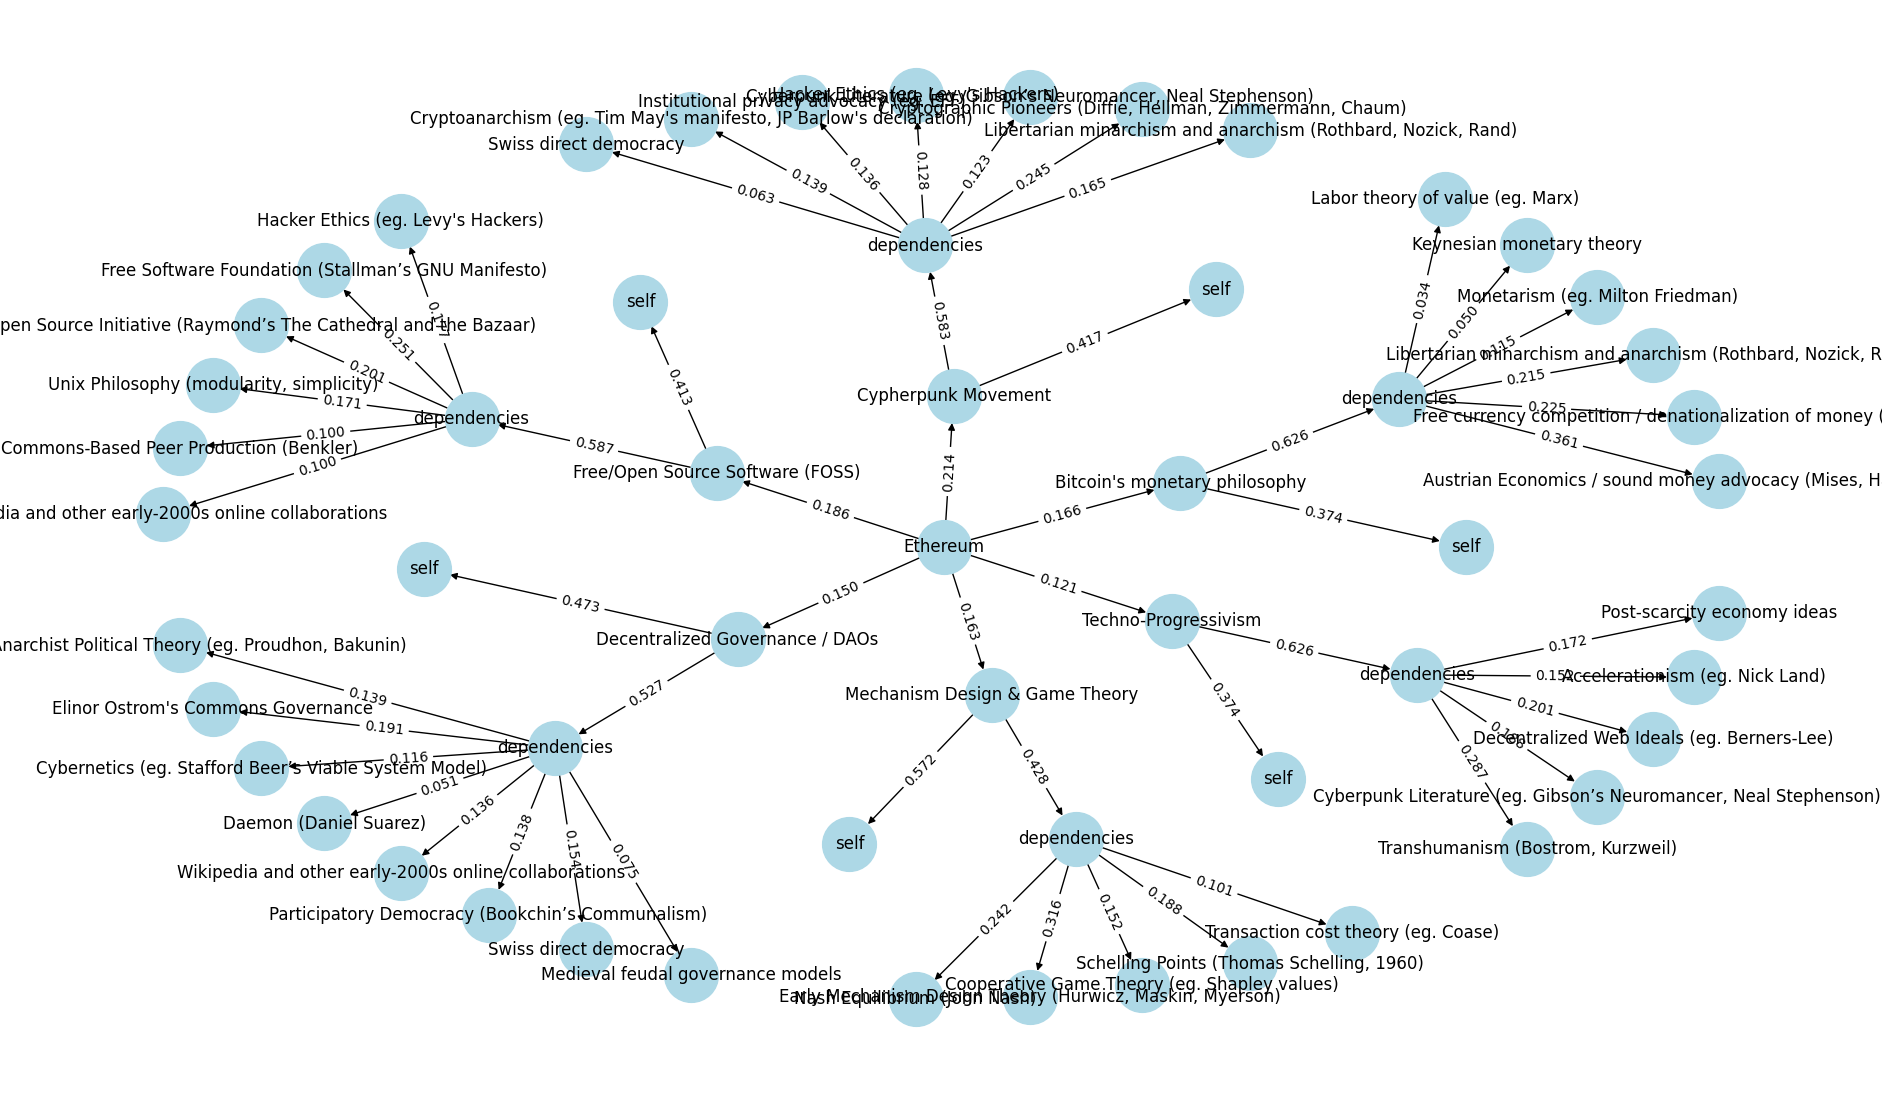
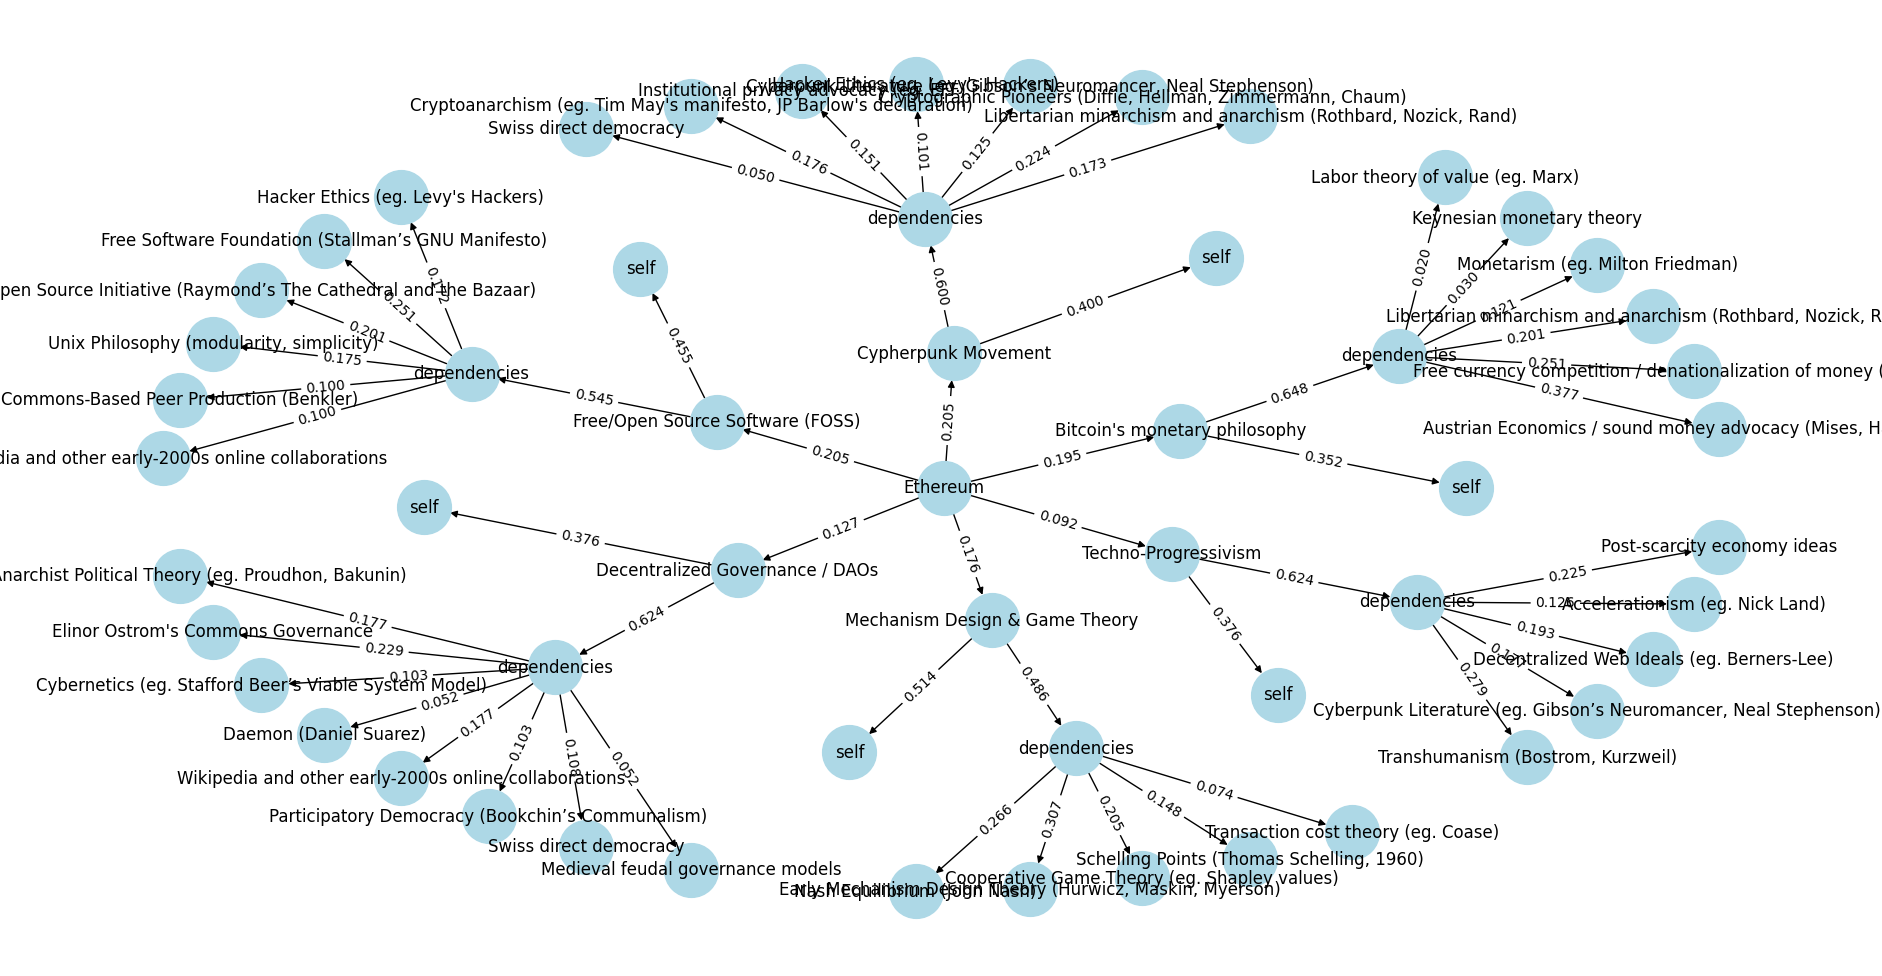
Fixed a few bugz

diff --git a/example2.py b/example2.py
@@ -3,7 +3,43 @@ from scoring import find_optimal_weights, cost_function
 import networkx as nx
 import matplotlib.pyplot as plt
 
-items = {
+INTRO_STRING = """
+Welcome to the multi-layer deep funding demo! In this example, we are
+going to assign weights to various philosophical contributions that are
+upstream of Ethereum's philosophy. This includes _direct_ dependencies, such as
+as Bitcoin's monetary philosophy and the cypherpunk movement, and also
+_dependencies of each dependency_: for example, Austrian economics as
+a dependency of Bitcoin's monetary philosophy.
+
+Note that in principle, a dependency graph of this type can go very deep:
+Austrian economics itself depends on classical liberalism, which itself has
+some degree of dependence on Islamic economic theories that were developed
+roughly a millennium ago. Here, we are simplifying to two levels.
+
+We represent the two-level graph as a _three-level_ graph, to incorporate
+another subtle but important dimension: to what extent was each of Ethereum's
+philosophical progenitors an original contribution, versus "just" a repackaging
+of things that came before it? In other natural deep funding use cases, such as
+math academic and software, this dimension is even more important.
+
+This simulator puts you into the role of a juror. You will be given several
+"comparison" questions, which ask you to make _local_ judgements: for a given
+philosophy, and two of its "ancestors", judge which of its ancestors provided
+more value, and how much more. There will also be questions asking you to
+judge the degree of originality of a philosophy.
+
+Several AI models have been asked to give a score for every edge in the
+dependency graph. After you, the juror, give a few inputs on randomly-sampled
+questions, the linear combination of AI models that are a best-fit to your
+answers will be used to generate "final" weights for the entire graph.
+"""
+
+# The thing whose (recursive) dependencies we are trying to assign credit for
+ROOT_NODE = "Ethereum"
+
+# A list of dependencies of ROOT_NODE, and for each dependency a list of
+# dependencies _of that dependency_
+ITEMS = {
     "Bitcoin's monetary philosophy": [
         "Austrian Economics / sound money advocacy (Mises, Hayek, Rothbard)",
         "Free currency competition / denationalization of money (eg. Hayek)",
@@ -55,7 +91,11 @@ items = {
     ]
 }
 
-graph = {
+# Repackaging the above into a "standardized" graph format. This graph format
+# is three-layered, where the middle layer represents the question of to what
+# extent each top-level dependency is itself a contribution in its own right,
+# versus a repackaging of its own dependencies.
+GRAPH = {
     item: {
         "self": None,
         "dependencies": {
@@ -63,49 +103,34 @@ graph = {
             for value in values
         }
     }
-    for item, values in items.items()
+    for item, values in ITEMS.items()
 }
 
+# Sample code to generate some queries that you can ask AI models to get
+# weights for the whole graph. Note that there is probably an entire art
+# to prompting (and perhaps extending with RAG or interner search or
+# even fine-tuning) an AI well to give good answers to these questions.
 def generate_ai_queries(parent, graph):
     if graph is None:
         return []
     elif set(list(graph.keys())) == {'self', 'dependencies'}:
         children = list(graph['dependencies'].keys())
         o = [
-            f"Estimate to what extent {parent} can be described as a mere combination of pre-existing ideas such as {children}, and to what extent it's a novel thing that is more than the sum of its parts. Provide your answer as a list [pct_original, pct_derivative], where the two numbers add up to 100, with no surrounding explanation text"
+            f"Estimate to what extent {parent} can be described as a mere combination of pre-existing ideas such as {children}, and to what extent it's a novel thing that is more than the sum of its parts. Provide your answer as a python list [pct_original, pct_derivative], where the two numbers add up to 100, with no surrounding explanation text"
         ]
         o.extend(generate_ai_queries(parent, graph['dependencies']))
         return o
     else:
         children = list(graph.keys())
         o = [
-            f"Estimate the relative influence that each of the following philosophies {children} had on {parent}. Provide your answer ONLY as a list of numbers that add up to 100, with no surrounding explanation text"
+            f"Estimate the relative influence that each of the following philosophies {children} had on {parent}. Provide your answer ONLY as a python list of numbers (eg. [10, 20, 30, 40]) that add up to 100, with no surrounding explanation text"
         ]
         for parent, child_node in graph.items():
             o.extend(generate_ai_queries(parent, child_node))
         return o
 
+# The scores given by each AI model, arranged in depth-first-search order
 distributions = {
-    'gpt_o1': [
-        15,
-        40, 60,
-        40, 25, 20, 10, 3, 2,
-        20,
-        40, 60,
-        15, 20, 15, 10, 15, 20, 5,
-        20,
-        60, 40,
-        15, 25, 20, 20, 10, 10,
-        15,
-        40, 60,
-        15, 20, 10, 5, 15, 10, 20, 5,
-        15,
-        70, 30,
-        20, 30, 20, 20, 10,
-        15,
-        40, 60,
-        30, 20, 15, 15, 20
-    ],
     'gpt_o3': [
         # Bitcoin's monetary philosophy (20% overall)
         20,                # Top‐level credit share
@@ -131,6 +156,26 @@ distributions = {
         10,                # Top‐level credit share
         40, 60,           # 40% original, 60% derivative
         25, 20, 25, 15, 15 # Children
+    ],
+    'gpt_o1': [
+        15,
+        40, 60,
+        40, 25, 20, 10, 3, 2,
+        20,
+        40, 60,
+        15, 20, 15, 10, 15, 20, 5,
+        20,
+        60, 40,
+        15, 25, 20, 20, 10, 10,
+        15,
+        40, 60,
+        15, 20, 10, 5, 15, 10, 20, 5,
+        15,
+        70, 30,
+        20, 30, 20, 20, 10,
+        15,
+        40, 60,
+        30, 20, 15, 15, 20
     ],
     'deepseek': [
         25,
@@ -174,8 +219,11 @@ distributions = {
     ]
 }
 
+# The actual scoring function operates over logits, so we convert all
+# scores into logits.
 logits = [[math.log(p) for p in dist] for dist in distributions.values()]
 
+# Function to ask the user to compare two children of a parent
 def ask_comparison(parent, name_a, name_b):
     # Ask the user which deserves more credit
     print(" ")
@@ -193,6 +241,7 @@ def ask_comparison(parent, name_a, name_b):
     # Calculate log multiplier (negative if first name is chosen)
     return math.log(multiplier) if choice == '2' else -math.log(multiplier)
 
+# Function to ask the user to give the level of originality of a node
 def ask_about_originality(parent, children):
     children_txt = '* ' + '\n* '.join(children)
     print(" ")
@@ -200,40 +249,56 @@ def ask_about_originality(parent, children):
     value = float(input("Eg. answer 0.75 for developments that are very significant in their own right, 0.25 for mostly-recombinations, and 0.5 if somewhere in between: "))
     return math.log(value / (1 - value))
 
-def compute_start_positions(graph):
-    start_positions = [len(graph.keys())]
-    for child in graph.values():
-        children_count = len(child['dependencies'].keys())
-        start_positions.append(start_positions[-1] + 2 + children_count)
-    return start_positions
+# Get the total number of nodes in a given graph or subtree
+def get_total_node_count(node):
+    if node is None:
+        return 1
+    else:
+        return 1 + sum([get_total_node_count(v) for v in node.values()])
 
+# In a vector, given a particular position of the current node, get
+# the positions of its children, based on depth-first order
+def get_children_positions(my_position, node):
+    o = [my_position + 1]
+    for child in node.values():
+        o.append(o[-1] + get_total_node_count(child))
+    return o[:-1]
 
+# Ask a user enough questions to get a list of sample values, which
+# models can then be tested against.
 def gather_user_comparisons(parent, graph):
     top_level_nodes = list(graph.keys())
     top_level_width = len(top_level_nodes)
     samples = []
-    start_positions = compute_start_positions(graph)
+    start_positions = get_children_positions(-1, graph)
     # Top-level comparisons
     for _ in range(2):
-        # Randomly select two different names
+        # Randomly select two different top-level dependencies
         a, b = random.sample(range(top_level_width), 2)
         name_a, name_b = top_level_nodes[a], top_level_nodes[b]
         # Store result as (index of first, index of second, log multiplier)
-        samples.append((a, b, ask_comparison(parent, name_a, name_b)))
+        samples.append((
+            start_positions[a],
+            start_positions[b],
+            ask_comparison(parent, name_a, name_b)
+        ))
     # Originality rating
     for _ in range(2):
-        # Randomly select two different names
+        # Randomly select a single top-level dependency
         a = random.randrange(top_level_width)
-        a_self_index = start_positions[a]
-        a_dependencies_index = start_positions[a] + 1
+        a_self_index = start_positions[a] + 1
+        a_dependencies_index = start_positions[a] + 2
         name_a = top_level_nodes[a]
         # Store result as (index of first, index of second, log multiplier)
         samples.append((
             a_self_index,
             a_dependencies_index,
-            ask_about_originality(name_a, list(graph[name_a]['dependencies'].keys()))
+            ask_about_originality(
+                name_a,
+                list(graph[name_a]['dependencies'].keys())
+            )
         ))
-    # Child-level comparisons
+    # Comparing two children of a given top-level dependency
     for _ in range(4):
         # Randomly select a child node
         a = random.randrange(top_level_width)
@@ -242,10 +307,9 @@ def gather_user_comparisons(parent, graph):
         lower_level_nodes = list(graph[name_a]["dependencies"].keys())
         lower_level_width = len(lower_level_nodes)
         b, c = random.sample(range(lower_level_width), 2)
-        b_index, c_index = start_positions[a] + 2 + b, start_positions[a] + 2 + c
+        b_index, c_index = start_positions[a] + 3 + b, start_positions[a] + 3 + c
         name_b, name_c = lower_level_nodes[b], lower_level_nodes[c]
         samples.append((b_index, c_index, ask_comparison(name_a, name_b, name_c)))
-
     return samples
 
 def plot_tree(tree, weights, root):
@@ -388,17 +452,8 @@ def plot_tree(tree, weights, root):
     nx.draw_networkx_edge_labels(G, pos, edge_labels=edge_labels)
     plt.show()
 
-def get_total_node_count(node):
-    if node is None:
-        return 1
-    else:
-        return 1 + sum([get_total_node_count(v) for v in node.values()])
-
-def get_children_positions(my_position, node):
-    o = [my_position + 1]
-    for child in node.values():
-        o.append(o[-1] + get_total_node_count(child))
-    return o[:-1]
+# Take a vector of weights, and adjust it so that
+# the weights of all children of a given parent sum to 1
 
 def normalize_vector(node, vector, pos=-1):
     child_positions = get_children_positions(pos, node)
@@ -410,7 +465,14 @@ def normalize_vector(node, vector, pos=-1):
             normalize_vector(child_node, vector, pos)
 
 if __name__ == '__main__':
-    user_samples = gather_user_comparisons('Ethereum', graph)
+    print(INTRO_STRING)
+
+    user_samples = gather_user_comparisons(ROOT_NODE, GRAPH)
+
+    print("\nObtained samples: ")
+    for a, b, diff in user_samples:
+        print(f"({a}, {b}, {diff:.3f})")
+    print("")
 
     optimal_weights = find_optimal_weights(logits, user_samples)
     final_logits = [
@@ -418,7 +480,7 @@ if __name__ == '__main__':
         for i in range(len(logits[0]))
     ]
     final_edges = [math.exp(v) for v in final_logits]
-    normalize_vector(graph, final_edges)
+    normalize_vector(GRAPH, final_edges)
     for i, k in enumerate(distributions.keys()):
         print(
             "Cost of pure {} distribution: {:.4f}"
@@ -432,5 +494,5 @@ if __name__ == '__main__':
     for key, weight in zip(distributions.keys(), optimal_weights):
         padding = ' ' * (max(len(x) for x in distributions.keys()) - len(key))
         print(f"{key}:{padding} {weight:.3f}")
-    print("\nLowest-cost distribution:\n")
-    plot_tree(graph, final_edges, "Ethereum")
+    print("\nGraphing lowest-cost distribution...")
+    plot_tree(GRAPH, final_edges, ROOT_NODE)
